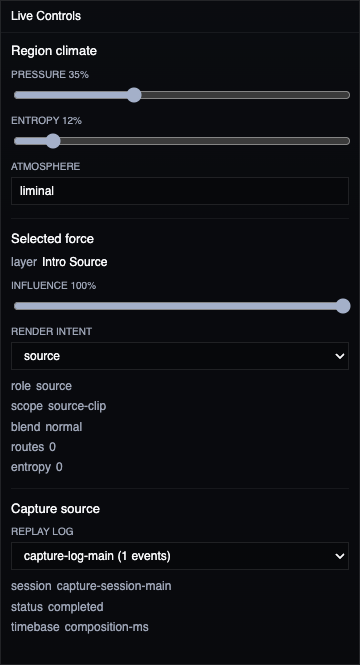
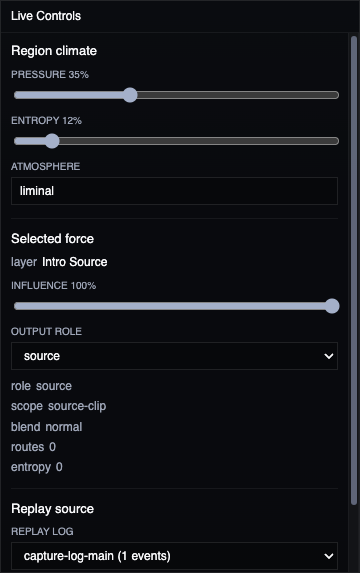
Tighten Performance preview language

Changed region(s): [[0.0306, 0.0, 1.0, 0.9791]]

diff --git a/apps/studio-desktop/src/features/performance-space/views.tsx b/apps/studio-desktop/src/features/performance-space/views.tsx
@@ -140,7 +140,7 @@ function SceneSetListItem(props: {
       <span style={{ display: 'flex', gap: 12, color: muted, flexWrap: 'wrap' }}>
         <Metric label="climate" value={scene.climate.atmosphere ?? 'neutral'} />
         <Metric label="layers" value={layers.length} />
-        <Metric label="capture" value={props.sceneSnapshot.captureLogCount} />
+        <Metric label="replay logs" value={props.sceneSnapshot.captureLogCount} />
       </span>
       <span style={{ display: 'flex', gap: 12, color: muted, flexWrap: 'wrap' }}>
         <Metric label="pressure" value={formatPercent(scene.climate.pressure)} />
@@ -237,7 +237,7 @@ function SignalStage(props: {
         <Metric label="routes" value={props.scene?.routes.length ?? 0} />
         <Metric label="entropy states" value={props.scene?.entropyStates.length ?? 0} />
         <Metric label="preview" value={props.previewState} />
-        <Metric label="replay" value={props.replayState} />
+        <Metric label="replay preview" value={props.replayState} />
         <Metric label="faults" value={props.scene?.diagnostics.length ?? 0} />
       </div>
     </div>
@@ -253,7 +253,7 @@ function OutputStrip(props: {
   replayArtifact?: string;
   previewError?: string;
   replayError?: string;
-  onCoalesce: () => void;
+  onPreview: () => void;
   onReplay: () => void;
   canPreview: boolean;
   canReplay: boolean;
@@ -262,7 +262,7 @@ function OutputStrip(props: {
 }) {
   return (
     <section
-      aria-label="Performance preview and replay output strip"
+      aria-label="Performance preview and replay preview output strip"
       style={{
         minWidth: 0,
         minHeight: 0,
@@ -278,10 +278,10 @@ function OutputStrip(props: {
     >
       <div style={{ display: 'grid', gap: 7, minWidth: 0 }}>
         <div style={{ display: 'flex', gap: 18, flexWrap: 'wrap', minWidth: 0 }}>
-          <Metric label="preview job" value={`${props.previewLabel}${props.previewProgress !== undefined ? ` ${props.previewProgress}%` : ''}`} />
-          <Metric label="replay job" value={`${props.replayLabel}${props.replayProgress !== undefined ? ` ${props.replayProgress}%` : ''}`} />
-          <Metric label="preview artifact" value={formatPathTail(props.previewArtifact)} />
-          <Metric label="replay artifact" value={formatPathTail(props.replayArtifact)} />
+          <Metric label="preview" value={`${props.previewLabel}${props.previewProgress !== undefined ? ` ${props.previewProgress}%` : ''}`} />
+          <Metric label="replay preview" value={`${props.replayLabel}${props.replayProgress !== undefined ? ` ${props.replayProgress}%` : ''}`} />
+          <Metric label="preview result" value={formatPathTail(props.previewArtifact)} />
+          <Metric label="replay result" value={formatPathTail(props.replayArtifact)} />
         </div>
         {props.previewError || props.replayError ? (
           <div style={{ color: '#e6c7b8', overflow: 'hidden', textOverflow: 'ellipsis', whiteSpace: 'nowrap' }}>
@@ -290,14 +290,14 @@ function OutputStrip(props: {
         ) : null}
         {!props.canPreview || !props.canReplay ? (
           <div style={{ display: 'flex', gap: 14, flexWrap: 'wrap', color: muted }}>
-            {!props.canPreview ? <span>Coalesce blocked: {props.previewReasons[0] ?? 'not ready'}</span> : null}
-            {!props.canReplay ? <span>Replay blocked: {props.replayReasons[0] ?? 'not ready'}</span> : null}
+            {!props.canPreview ? <span>Preview blocked: {props.previewReasons[0] ?? 'not ready'}</span> : null}
+            {!props.canReplay ? <span>Replay Preview blocked: {props.replayReasons[0] ?? 'not ready'}</span> : null}
           </div>
         ) : null}
       </div>
       <div style={{ display: 'flex', gap: 8, flexWrap: 'wrap', justifyContent: 'flex-end' }}>
-        <ToolbarButton primary disabled={!props.canPreview} onClick={props.onCoalesce}>Coalesce</ToolbarButton>
-        <ToolbarButton disabled={!props.canReplay} onClick={props.onReplay}>Replay Capture</ToolbarButton>
+        <ToolbarButton primary disabled={!props.canPreview} onClick={props.onPreview}>Preview</ToolbarButton>
+        <ToolbarButton disabled={!props.canReplay} onClick={props.onReplay}>Replay Preview</ToolbarButton>
       </div>
     </section>
   );
@@ -349,7 +349,7 @@ export function PerformanceSpaceView() {
       : snapshot.latestCaptureLog?.id);
   }, [project.captureLogs, snapshot.latestCaptureLog?.id]);
 
-  const coalescePreview = () => {
+  const runPreview = () => {
     if (!snapshot.readiness.previewReady || !snapshot.variant || !snapshot.previewOutputPath) {
       return;
     }
@@ -364,7 +364,7 @@ export function PerformanceSpaceView() {
     });
   };
 
-  const runCaptureReplay = () => {
+  const runReplayPreview = () => {
     if (!snapshot.readiness.replayReady || !snapshot.variant || !snapshot.replayOutputPath || !snapshot.selectedCaptureLog) {
       return;
     }
@@ -408,7 +408,7 @@ export function PerformanceSpaceView() {
           <div style={{ display: 'flex', gap: 18, flexWrap: 'wrap', color: muted }}>
             <Metric label="scenes" value={snapshot.scenes.length} />
             <Metric label="forces" value={snapshot.scenes.reduce((count, scene) => count + scene.layers.length, 0)} />
-            <Metric label="captures" value={project.captureLogs.length} />
+            <Metric label="replay logs" value={project.captureLogs.length} />
             <Metric label="readiness" value={snapshot.readiness.previewReady ? 'rehearsal ready' : 'blocked'} />
           </div>
         </div>
@@ -438,7 +438,7 @@ export function PerformanceSpaceView() {
           </Label>
         </div>
         <div style={{ display: 'grid', alignContent: 'center', gap: 6, minWidth: 0, padding: 10, borderLeft: `1px solid ${faintLine}`, color: muted }}>
-          <Metric label="capture" value={snapshot.selectedCaptureSession?.id ?? 'none'} />
+          <Metric label="replay source" value={snapshot.selectedCaptureSession?.id ?? 'none'} />
           <Metric label="started" value={formatTime(snapshot.selectedCaptureSession?.startedAt)} />
           <Metric label="events" value={snapshot.selectedCaptureLog?.events.length ?? 0} />
         </div>
@@ -531,7 +531,7 @@ export function PerformanceSpaceView() {
                     style={rangeStyle()}
                   />
                 </Label>
-                <Label label="Render intent">
+                <Label label="Output role">
                   <select
                     value={selectedLayer.renderIntent.passKind}
                     onChange={(event) => updateCompositionLayer(selectedLayer.id, {
@@ -553,14 +553,14 @@ export function PerformanceSpaceView() {
             ) : null}
 
             <div style={{ display: 'grid', gap: 9, paddingTop: 12, borderTop: `1px solid ${faintLine}` }}>
-              <h3 style={{ margin: 0, fontSize: 13, fontWeight: 500 }}>Capture source</h3>
+              <h3 style={{ margin: 0, fontSize: 13, fontWeight: 500 }}>Replay source</h3>
               <Label label="Replay log">
                 <select
                   value={selectedCaptureLogId ?? ''}
                   onChange={(event) => setSelectedCaptureLogId(event.target.value || undefined)}
                   style={fieldStyle()}
                 >
-                  {project.captureLogs.length === 0 ? <option value="">No captures</option> : null}
+                  {project.captureLogs.length === 0 ? <option value="">No replay logs</option> : null}
                   {project.captureLogs.map((log) => (
                     <option key={log.id} value={log.id}>{log.id} ({log.events.length} events)</option>
                   ))}
@@ -585,8 +585,8 @@ export function PerformanceSpaceView() {
         replayArtifact={snapshot.replayJob.lastArtifactPath}
         previewError={snapshot.previewJob.error}
         replayError={snapshot.replayJob.error}
-        onCoalesce={coalescePreview}
-        onReplay={runCaptureReplay}
+        onPreview={runPreview}
+        onReplay={runReplayPreview}
         canPreview={snapshot.readiness.previewReady}
         canReplay={snapshot.readiness.replayReady}
         previewReasons={snapshot.readiness.previewReasons}

diff --git a/apps/studio-desktop/src/shared/performance-space.ts b/apps/studio-desktop/src/shared/performance-space.ts
@@ -155,11 +155,11 @@ function getJobArtifactPath(job?: DesktopJob): string | undefined {
     ?? (job?.status === 'completed' ? job.target : undefined);
 }
 
-function summarizeJob(job: DesktopJob | undefined, idleLabel: string): PerformanceJobSummary {
+function summarizeJob(job: DesktopJob | undefined, labels: { idle: string; running: string }): PerformanceJobSummary {
   if (!job) {
     return {
       busy: false,
-      label: idleLabel
+      label: labels.idle
     };
   }
 
@@ -173,8 +173,10 @@ function summarizeJob(job: DesktopJob | undefined, idleLabel: string): Performan
     label: job.status === 'queued'
       ? 'queued'
       : job.status === 'running'
-        ? 'rendering'
-        : job.status,
+        ? labels.running
+        : job.status === 'completed'
+          ? 'ready'
+          : job.status,
     progress,
     lastArtifactPath: getJobArtifactPath(job),
     error: job.status === 'failed' ? (job.error ?? job.log.at(-1)) : undefined
@@ -217,7 +219,7 @@ function buildReadiness(input: {
     previewReasons.push(`${input.desktopWarningCount} desktop diagnostic issue${input.desktopWarningCount === 1 ? '' : 's'}`);
   }
   if (input.previewBusy) {
-    previewReasons.push('preview render already active');
+    previewReasons.push('preview already active');
   }
 
   if (!input.selectedCaptureLog) {
@@ -226,14 +228,14 @@ function buildReadiness(input: {
     replayReasons.push('selected capture log has no events');
   }
   if (input.replayBusy) {
-    replayReasons.push('capture replay render already active');
+    replayReasons.push('replay preview already active');
   }
 
   return {
     previewReady: hasClips && input.integrityDiagnostics.length === 0 && !input.previewBusy,
     replayReady: hasClips && input.integrityDiagnostics.length === 0 && Boolean(input.selectedCaptureLog?.events.length) && !input.replayBusy,
     previewReasons,
-    replayReasons: [...previewReasons.filter((reason) => reason !== 'preview render already active'), ...replayReasons]
+    replayReasons: [...previewReasons.filter((reason) => reason !== 'preview already active'), ...replayReasons]
   };
 }
 
@@ -311,8 +313,14 @@ export function derivePerformanceSnapshot(input: DerivePerformanceSnapshotInput)
   const replayOutputPath = input.projectRoot && variant && selectedCaptureLog
     ? `${input.projectRoot}/.afterimage/preview/${variant.id}-${selectedCaptureLog.id}-replay.mp4`
     : undefined;
-  const previewJob = summarizeJob(latestJobForTarget(input.jobs ?? [], previewOutputPath), 'not rendered');
-  const replayJob = summarizeJob(latestJobForTarget(input.jobs ?? [], replayOutputPath), 'not replayed');
+  const previewJob = summarizeJob(latestJobForTarget(input.jobs ?? [], previewOutputPath), {
+    idle: 'not previewed',
+    running: 'building preview'
+  });
+  const replayJob = summarizeJob(latestJobForTarget(input.jobs ?? [], replayOutputPath), {
+    idle: 'not replayed',
+    running: 'building replay preview'
+  });
   const desktopWarningCount = (input.diagnostics?.warnings.length ?? 0) + (input.diagnostics?.missingMedia.length ?? 0);
 
   return {

diff --git a/apps/studio-desktop/src/features/performance-space/helpers.test.ts b/apps/studio-desktop/src/features/performance-space/helpers.test.ts
@@ -22,6 +22,8 @@ describe('performance-space helpers', () => {
     expect(snapshot.sequence?.id).toBe('sequence-main');
     expect(snapshot.variant?.id).toBe('variant-main');
     expect(snapshot.previewOutputPath).toBe('/tmp/project/.afterimage/preview/variant-main.mp4');
+    expect(snapshot.previewJob.label).toBe('not previewed');
+    expect(snapshot.replayJob.label).toBe('not replayed');
   });
 
   it('falls back to the first scene with layers and first selected layer', () => {
@@ -129,10 +131,12 @@ describe('performance-space helpers', () => {
       ]
     });
 
-    expect(snapshot.previewJob.label).toBe('rendering');
+    expect(snapshot.previewJob.label).toBe('building preview');
     expect(snapshot.previewJob.progress).toBe(42);
+    expect(snapshot.readiness.previewReasons).toContain('preview already active');
     expect(snapshot.readiness.previewReady).toBe(false);
     expect(snapshot.replayJob.label).toBe('queued');
+    expect(snapshot.readiness.replayReasons).toContain('replay preview already active');
     expect(snapshot.readiness.replayReady).toBe(false);
   });
 

diff --git a/apps/studio-desktop/tests/electron-smoke.pw.ts b/apps/studio-desktop/tests/electron-smoke.pw.ts
@@ -105,7 +105,8 @@ test('loads a project and can open Archive, World, Performance, Forge, and Obser
     await expect(window.getByRole('heading', { name: 'Rehearsal Set' })).toBeVisible();
     await expect(window.getByRole('heading', { name: 'Main Scene universe' })).toBeVisible();
     await expect(window.getByText('Intro Source').first()).toBeVisible();
-    await expect(window.getByLabel('Performance preview and replay output strip').getByRole('button', { name: 'Coalesce' })).toBeVisible();
+    await expect(window.getByLabel('Performance preview and replay preview output strip').getByRole('button', { name: 'Preview', exact: true })).toBeVisible();
+    await expect(window.getByLabel('Performance preview and replay preview output strip').getByRole('button', { name: 'Replay Preview' })).toBeVisible();
     await expect(window.getByText('rehearsal ready')).toBeVisible();
 
     await spaces.getByRole('button', { name: 'Forge' }).click();

diff --git a/apps/studio-desktop/src/app/shell/registry.ts b/apps/studio-desktop/src/app/shell/registry.ts
@@ -36,7 +36,7 @@ export const studioSurfaces: Record<StudioTab, StudioWorkspaceSurface> = {
   performance: {
     id: 'performance',
     label: 'Performance Space',
-    description: 'Rehearsal, live steering, preview, and deterministic capture replay.'
+    description: 'Rehearsal, live steering, preview, and replay preview.'
   },
   sequence: {
     id: 'sequence',
@@ -106,7 +106,7 @@ export const studioWorkspaces: StudioWorkspaceDefinition[] = [
     id: 'performance',
     label: 'Performance',
     defaultTab: 'performance',
-    primaryAction: { label: 'Coalesce', targetTab: 'performance' },
+    primaryAction: { label: 'Preview', targetTab: 'performance' },
     surfaces: ['performance'],
     taskRoutes: {
       preview: { tab: 'performance' }

diff --git a/apps/studio-desktop/src/app/shell/workspace-status.ts b/apps/studio-desktop/src/app/shell/workspace-status.ts
@@ -37,7 +37,7 @@ export function getSurfaceStatus(tabId: StudioTab, metrics: WorkflowMetrics): { 
       if (metrics.sequenceClipCount === 0) {
         return { tone: 'blocked', label: 'needs sequence' };
       }
-      return metrics.activeJobCount > 0 ? { tone: 'attention', label: 'rendering' } : { tone: 'ready', label: 'rehearsal ready' };
+      return metrics.activeJobCount > 0 ? { tone: 'attention', label: 'building preview' } : { tone: 'ready', label: 'rehearsal ready' };
     case 'music':
       return metrics.audioAssetCount > 0 ? { tone: 'ready', label: 'soundtrack ready' } : { tone: 'attention', label: 'optional input' };
     case 'style':

diff --git a/docs/product/performance-space.md b/docs/product/performance-space.md
@@ -2,7 +2,7 @@
 
 Performance Space is the Studio rehearsal room. Use it when a composition already has a sequence and you want to steer the active world before committing to Forge output.
 
-It brings the active scenes, forces, climate, entropy, preview state, and capture replay state into one console. It does not record a new capture. It lets you coalesce the current composition into a preview and replay an existing capture log when one is available.
+It brings the active scenes, forces, climate, entropy, preview state, and replay preview state into one console. It does not record a new capture. It lets you preview the current composition and apply an existing capture log when one is available.
 
 ![Full Performance workspace](assets/performance-space/full-performance-workspace.png)
 
@@ -14,7 +14,7 @@ Use **World source** for the sequence and **Traversal** for the variant. The reh
 
 ## Choose A Scene Or Region
 
-The **Rehearsal Set** on the left lists the composition scenes. Each scene shows its climate, layer count, capture references, pressure, entropy, and readiness.
+The **Rehearsal Set** on the left lists the composition scenes. Each scene shows its climate, layer count, replay references, pressure, entropy, and readiness.
 
 Select a scene to make it the active region. The central signal view moves to that region and exposes its forces as selectable layer controls.
 
@@ -28,27 +28,27 @@ The **Live Controls** panel changes rehearsal-facing composition state:
 - **Entropy** changes how unstable or drift-prone the selected region should feel.
 - **Atmosphere** names the current climate.
 - **Influence** changes the selected layer mix.
-- **Render intent** changes the selected layer pass kind.
+- **Output role** changes how the selected layer contributes to the preview.
 
 These are normal project edits. They are saved through the same Studio project update path as World Space.
 
 ![Live controls](assets/performance-space/live-controls.png)
 
-## Coalesce A Preview
+## Preview The Rehearsal
 
-Use **Coalesce** in the output strip to bring the active sequence and variant into a preview. The output strip shows whether the preview is idle, queued, rendering, completed, failed, or cancelled. When a render completes, the last artifact path appears in the strip.
+Use **Preview** in the output strip to bring the active sequence and variant into a rehearsal preview. The output strip shows whether the preview is idle, queued, building, ready, failed, or cancelled. When a preview completes, the last result path appears in the strip.
 
-If Coalesce is blocked, the first blocking reason appears inline. Common reasons are an active variant with no clips, composition integrity issues, or another preview render already running.
+If Preview is blocked, the first blocking reason appears inline. Common reasons are an active variant with no clips, composition integrity issues, or another preview already running.
 
 ![Preview and replay output strip](assets/performance-space/preview-replay-output-strip.png)
 
-## Replay A Capture
+## Replay A Capture Log
 
-Use **Replay Capture** when the project already has a capture log. Performance Space selects the latest capture session and matching log by default, and you can choose another replay log from Live Controls.
+Use **Replay Preview** when the project already has a capture log. Performance Space selects the latest capture session and matching log by default, and you can choose another replay log from Live Controls.
 
-Replay renders a preview with the selected capture session/log applied. It does not append new capture events and it does not arm recording.
+Replay Preview builds a preview with the selected capture session/log applied. It does not append new capture events and it does not arm recording.
 
-When no capture exists, Replay Capture stays blocked and the output strip explains why.
+When no capture log exists, Replay Preview stays blocked and the output strip explains why.
 
 ![Blocked no-capture state](assets/performance-space/blocked-no-capture-state.png)
 
@@ -57,9 +57,9 @@ When no capture exists, Replay Capture stays blocked and the output strip explai
 Readiness is shown in the header, scene list, central signal view, and output strip.
 
 - **Rehearsal ready** means the active variant has clips and no composition integrity blockers.
-- **Replay ready** additionally needs a selected capture log with events.
+- **Replay preview ready** additionally needs a selected capture log with events.
 - **Blocked** means the action is unavailable until the inline reason is fixed.
-- **Rendering** or **queued** means an existing preview or replay job owns that output target.
+- **Building preview** or **queued** means an existing preview or replay preview owns that output target.
 - **Failed** means the last job for that output target ended with an error; read the output strip before retrying.
 
 ## Where To Go Next
